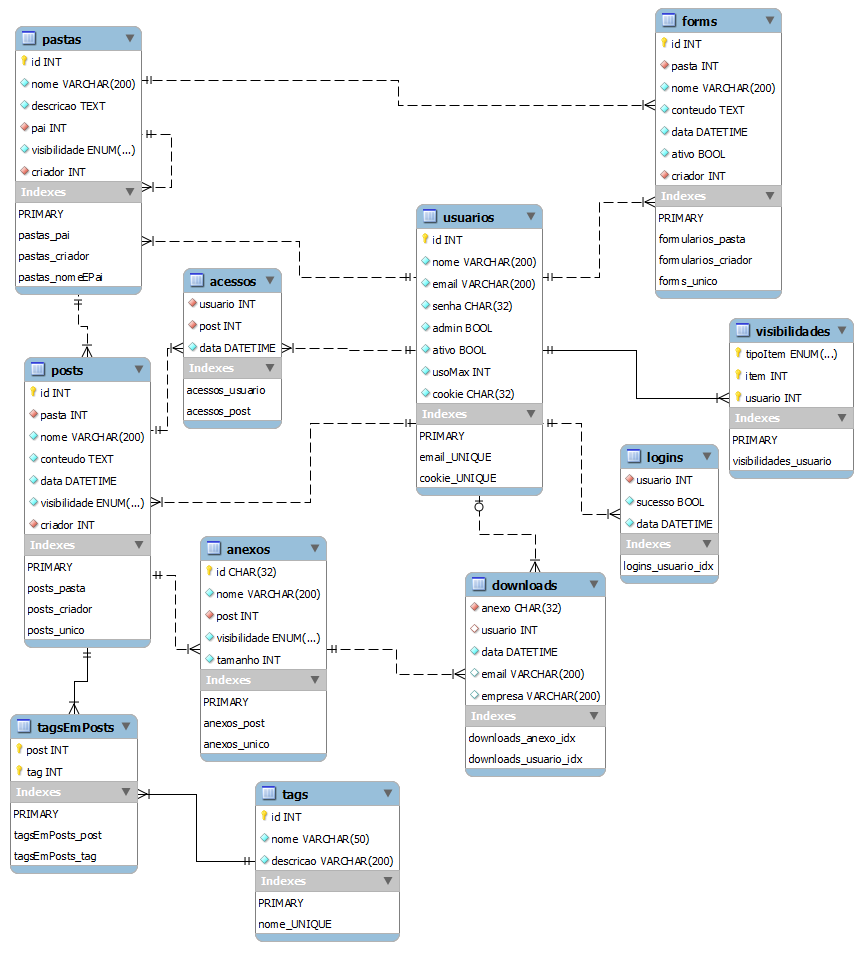
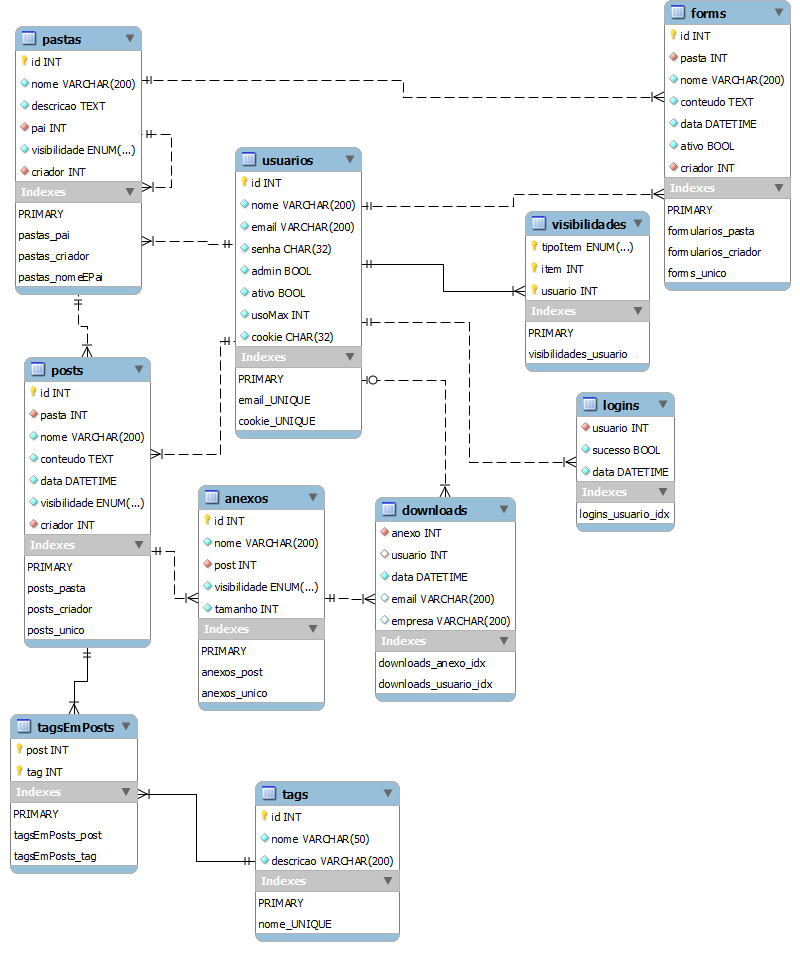
Edição de anexos e básico de download

Changed region(s): [[0.0, 0.0, 1.0, 1.0]]

diff --git a/js/post.js b/js/post.js
@@ -9,3 +9,9 @@ setBotao("remover", function () {
 	if (confirm("Você tem certeza que deseja excluir o post "+_nome+"?\nTodo o seu conteúdo será excluído permanentemente!"))
 		redirecionar("excluirPost.php", _caminho)
 })
+
+// Vai para a página de download do anexo
+// el é o elemento <div> clicado
+function ir(el) {
+	redirecionar('anexo', _caminho, el.querySelector("span").textContent)
+}

diff --git a/editarPost.php b/editarPost.php
@@ -35,29 +35,57 @@ $selecionados = isset($_POST['selecionados']) ? $_POST['selecionados'] : array()
 if (!preg_match('@^[^/]+$@', $nome))
 	morrerComErro('Nome inválido');
 
-// Salva os novos dados
+// O processo de criar/alterar, se falhar, deve falhar como um todo
+// Assim, primeiro é alterado o banco de dados e por último o sistema de arquivos
+
+// Salva as mudanças dos anexos
 $novosAnexos = array();
 $anexosRemovidos = array();
+
+// Tenta fazer todas as alterações no banco de dados
+Query::$conexao->autocommit(false);
 try {
-	// Salva/cria o post
-	Query::$conexao->autocommit(false);
+	// Altera/cria o básico do post
 	if ($criar) {
 		new Query('INSERT INTO posts VALUES (NULL, ?, ?, ?, NOW(), ?, ?)', $dados['id'], $nome, $conteudo, $visibilidade, $_usuario['id']);
 		$dados['id'] = Query::$conexao->insert_id;
 		$dados['criador'] = $_usuario['id'];
+		$meusAnexos = array();
 	} else {
 		new Query('UPDATE posts SET nome=?, conteudo=?, data=NOW(), visibilidade=? WHERE id=? LIMIT 1', $nome, $conteudo, $visibilidade, $dados['id']);
 		new Query('DELETE FROM visibilidades WHERE tipoItem="post" AND item=?', $dados['id']);
+		$meusAnexos = Query::query(false, 0, 'SELECT id FROM anexos WHERE post=?', $dados['id']);
 	}
+	
+	// Insere a seleção de visibilidade
 	for ($i=0; $i<count($selecionados); $i++)
 		if ((int)$selecionados[$i] != $dados['criador'])
 			new Query('INSERT INTO visibilidades VALUES ("post", ?, ?)', $dados['id'], (int)$selecionados[$i]);
 	
 	// Remove os anexos selecionados
 	if (isset($_POST['removidos']))
-		foreach ($_POST['removidos'] as $cada) {
-			new Query();
-			$anexosRemovidos[] = $cada; // TODO: parei aqui!!!
+		foreach ($_POST['removidos'] as $id=>$temp) {
+			$id = (int)$id;
+			if (!in_array($id, $meusAnexos))
+				throw new ErrorException('Tentativa inválida de remover um anexo');
+			new Query('DELETE FROM anexos WHERE id=? LIMIT 1', $id);
+			$anexosRemovidos[] = $id;
+		}
+	
+	// Atualiza a visibilidade dos anexos alterados
+	if (isset($_POST['mudancas']))
+		foreach ($_POST['mudancas'] as $id=>$cada) {
+			$id = (int)$id;
+			if (!in_array($id, $meusAnexos) || in_array($id, $anexosRemovidos))
+				throw new ErrorException('Tentativa inválida de alterar um anexo');
+			new Query('DELETE FROM visibilidades WHERE tipoItem="anexo" AND item=?', $id);
+			$visibilidade = $cada;
+			if (substr($visibilidade, 0, 6) == 'seleto') {
+				foreach (json_decode(substr($visibilidade, 6)) as $cada2)
+					new Query('INSERT INTO visibilidades VALUES ("anexo", ?, ?)', $id, $cada2);
+				$visibilidade = 'seleto';
+			}
+			new Query('UPDATE anexos SET visibilidade=? WHERE id=? LIMIT 1', $visibilidade, $id);
 		}
 	
 	// Trata os novos anexos
@@ -67,9 +95,9 @@ try {
 		$erros = $_FILES['arquivos']['error'];
 		$tamanhos = $_FILES['arquivos']['size'];
 		$infos = $_POST['infos'];
-		foreach ($nomes as $idAnexo=>$nome) {
+		foreach ($nomes as $idAnexo=>$nomeAnexo) {
 			if ($erros[$idAnexo])
-				morrerComErro('Falha no upload do arquivo ' . $nome);
+				morrerComErro('Falha no upload do arquivo ' . $nomeAnexo);
 			
 			// Insere no BD
 			$visibilidade = $infos[$idAnexo];
@@ -77,29 +105,30 @@ try {
 				$selecionados = json_decode(substr($visibilidade, 6));
 				$visibilidade = 'seleto';
 			}
-			new Query('INSERT INTO anexos VALUES (NULL, ?, ?, ?, ?)', $nome, $dados['id'], $visibilidade, round($tamanhos[$idAnexo]/1024));
+			new Query('INSERT INTO anexos VALUES (NULL, ?, ?, ?, ?)', $nomeAnexo, $dados['id'], $visibilidade, round($tamanhos[$idAnexo]/1024));
 			$id = Query::$conexao->insert_id;
 			if ($visibilidade == 'seleto')
 				for ($i=0; $i<count($selecionados); $i++)
 					new Query('INSERT INTO visibilidades VALUES ("anexo", ?, ?)', $id, $selecionados[$i]);
 			
-			// Move para a pasta correta
-			$novosAnexos[] = array("arquivos/$id", "arquivos/$id/$nome");
-			mkdir("arquivos/$id");
-			move_uploaded_file($tmp_names[$idAnexo], "arquivos/$id/$nome");
+			// Marca para mover depois
+			$novosAnexos[] = array($id, $nomeAnexo, $tmp_names[$idAnexo]);
 		}
 	}
 	
 	Query::$conexao->commit();
 	
-	// Tudo ok, volta para a página anterior
-	redirecionar('post' . ($criar ? $caminho . '/' . $nome : $caminho));
-} catch (Exception $e) {
-	// Elimina todos os novos anexos das pastas
+	// Agora que tudo no banco de dados correu bem, altera os arquivos no servidor
+	foreach ($anexosRemovidos as $cada)
+		unlinkAnexo($cada);
 	foreach ($novosAnexos as $cada) {
-		unlink($cada[1]);
-		rmdir($cada[0]);
+		mkdir("arquivos/$cada[0]");
+		move_uploaded_file($cada[2], "arquivos/$cada[0]/$cada[1]");
 	}
 	
+	// Tudo ok, volta para a página anterior
+	//redirecionar('post' . ($criar ? $caminho . '/' . $nome : $caminho));
+} catch (Exception $e) {
+	Query::$conexao->rollback();
 	morrerComErro('Falha ao gravar os dados: ' . $e);
 }

diff --git a/utils.php b/utils.php
@@ -182,7 +182,7 @@ function getCaminhoAcima($caminho) {
 // Se houver algum erro, a função irá retornar false (retorna true em caso de sucesso)
 // Em caso de sucesso, $dados irá conter todas as colunas do registro do item no banco de dados
 // Altera $caminho, deixando-o normalizado na forma "/a/b"
-// $tipo é 'pasta' ou 'post' e indica o tipo do item apontado pelo caminho
+// $tipo é 'pasta', 'post' ou 'anexo' e indica o tipo do item apontado pelo caminho
 function interpretarCaminho(&$caminho, &$dados, $tipo='pasta') {
 	$pastas = preg_split('@/@', $caminho, -1, PREG_SPLIT_NO_EMPTY);
 	$caminho = '/' . implode('/', $pastas);
@@ -198,7 +198,8 @@ function interpretarCaminho(&$caminho, &$dados, $tipo='pasta') {
 	
 	// Percorre o caminho, verificando a permissão de acesso
 	$dados = array('id' => 0);
-	for ($i=0; $i<count($pastas)-1; $i++) {
+	$max = $tipo=='anexo' ? count($pastas)-2 : count($pastas)-1;
+	for ($i=0; $i<$max; $i++) {
 		// Carrega o id da próxima pasta
 		$pasta = $pastas[$i];
 		try {
@@ -214,7 +215,7 @@ function interpretarCaminho(&$caminho, &$dados, $tipo='pasta') {
 	}
 	
 	// Pega o último item
-	$item = $pastas[count($pastas)-1];
+	$item = $pastas[$max];
 	try {
 		if ($tipo == 'pasta')
 			$dados = Query::query(true, NULL, 'SELECT * FROM pastas WHERE nome=? AND pai=? LIMIT 1', $item, $dados['id']);
@@ -226,8 +227,16 @@ function interpretarCaminho(&$caminho, &$dados, $tipo='pasta') {
 	}
 	
 	// Verifica se o item é visível para esse usuário
-	if (!verificarVisibilidade($tipo, $dados['id'], $dados['visibilidade'], $dados['criador']))
+	if (!verificarVisibilidade($tipo=='anexo' ? 'post' : $tipo, $dados['id'], $dados['visibilidade'], $dados['criador']))
 		return false;
+	
+	// Verifica o anexo finalmente
+	if ($tipo == 'anexo') {
+		$criador = $dados['criador'];
+		$dados = Query::query(true, NULL, 'SELECT * FROM anexos WHERE nome=? AND post=? LIMIT 1', $pastas[$max+1], $dados['id']);
+		if (!verificarVisibilidade('anexo', $dados['id'], $dados['visibilidade'], $criador))
+			return false;
+	}
 	
 	return true;
 }
@@ -320,7 +329,7 @@ function unlinkAnexo($id) {
 	if (file_exists($dir)) {
 		foreach (scandir($dir) as $cada)
 			if ($cada != '.' && $cada != '..')
-				unlink($cada);
+				unlink("$dir/$cada");
 		rmdir($dir);
 	}
 }

diff --git a/layouts/anexo.php b/layouts/anexo.php
@@ -1,0 +1,34 @@
+<?php
+// Busca os dados do anexo
+$caminho = $_GET['q'];
+$anexo = NULL;
+$sucesso = interpretarCaminho($caminho, $anexo, 'anexo');
+
+if (!$sucesso) {
+	// Anexo invisível ou não encontrado
+	imprimir('Erro', 'h2');
+	imprimir('Anexo não encontrado', 'p strong');
+	return;
+}
+
+// Busca o nome real do arquivo
+$arquivo = '';
+foreach (scandir("arquivos/$anexo[id]") as $cada)
+	if ($cada != '.' && $cada != '..')
+		$arquivo = "arquivos/$anexo[id]/$cada";
+if (!$arquivo) {
+	imprimir('Erro', 'h2');
+	imprimir('Anexo não encontrado', 'p strong');
+	return;
+}
+
+// TODO: anotar a estatística
+// TODO: pesquisa de download com usuários não logados
+
+// Gera o download do anexo
+ob_end_clean();
+header('Content-Disposition: attachment; filename="' . $anexo['nome'] . '"');
+header('Content-Type: application/octet-stream'); // Deixa o MIME para o navegador decidir
+readfile($arquivo);
+exit;
+?>

diff --git a/layouts/post.php b/layouts/post.php
@@ -54,7 +54,7 @@ imprimir($dados['conteudo'], 'div.subConteudo');
 	$anexos = Query::query(false, NULL, 'SELECT id, nome, visibilidade, tamanho FROM anexos WHERE post=? ORDER BY nome', $dados['id']);
 	foreach ($anexos as $anexo) {
 		if (verificarVisibilidade('anexo', $anexo['id'], $anexo['visibilidade'], $dados['criador'])) {
-			echo '<div class="item item-anexo">';
+			echo '<div class="item item-anexo" onclick="ir(this)">';
 			imprimir($anexo['nome'], 'span.item-nome');
 			imprimir(KiB2str($anexo['tamanho']), 'span.item-descricao');
 			echo '</div>';

diff --git a/layouts/editarPost.php b/layouts/editarPost.php
@@ -101,7 +101,7 @@ $radio3 = $dados['visibilidade']=='seleto' ? ' checked' : '';
 	function visibilidade2str($visibilidade, $selecionados) {
 		if ($visibilidade == 'publico')
 			return 'Visível publicamente';
-		else if ($dados['visibilidade'] == 'geral')
+		else if ($visibilidade == 'geral')
 			return 'Visível para todos os usuários logados';
 		else if (count($selecionados))
 			return 'Visível para somente para ' . implode(', ', $selecionados) . ' e o criador';
